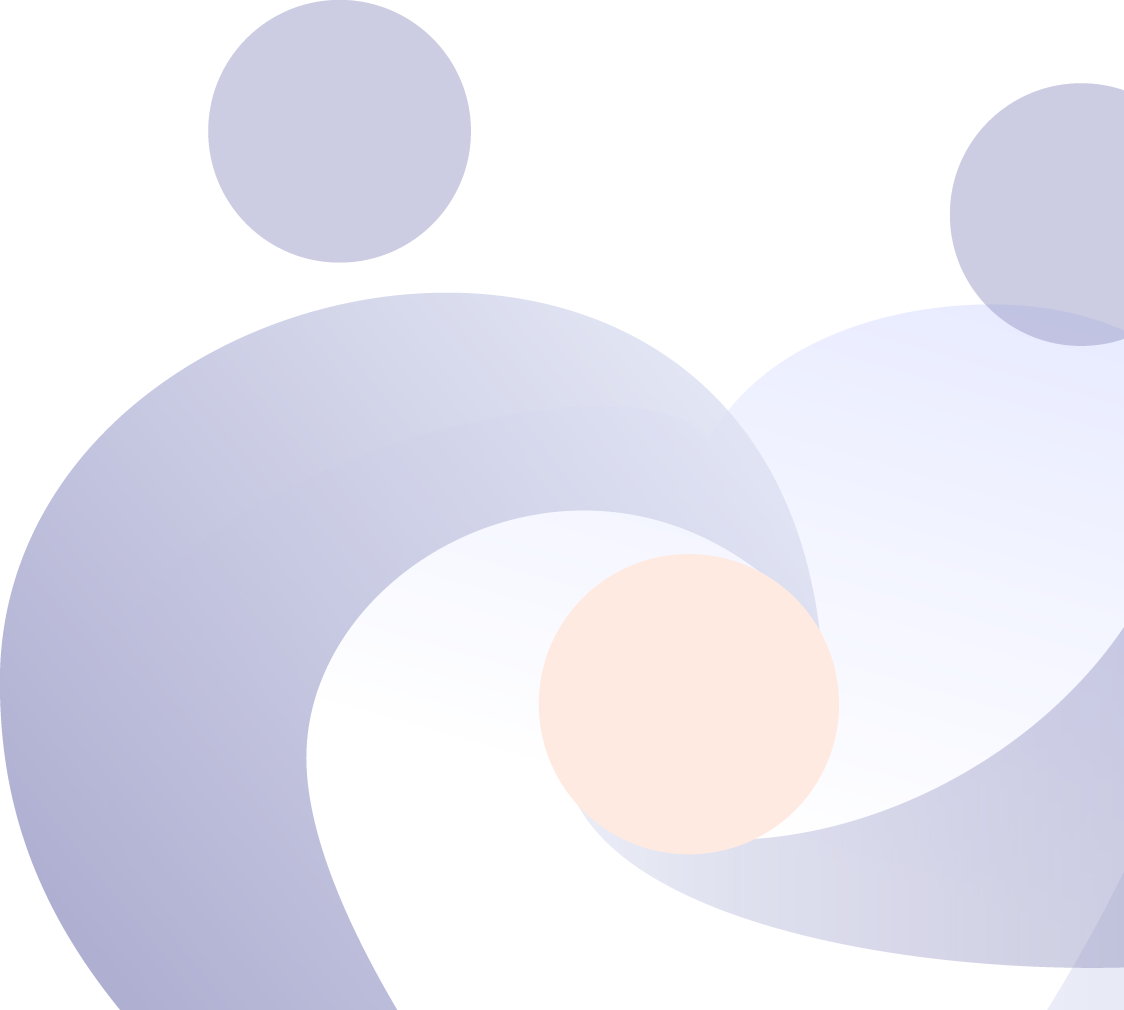
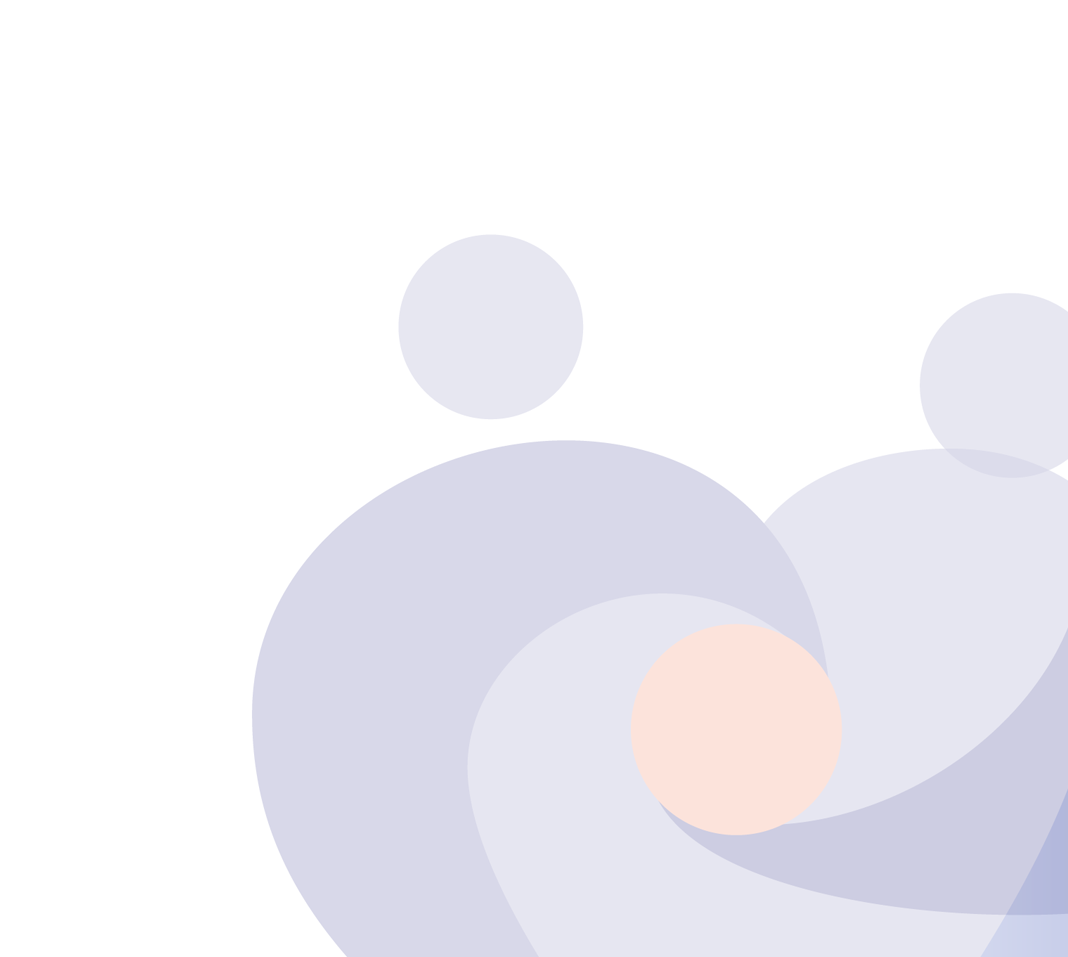
Add background images for public sites Cheated with paddings for full-size image

diff --git a/frontend/src/components/public/Home.js b/frontend/src/components/public/Home.js
@@ -3,30 +3,34 @@ import history from '../../history';
 
 const Home = () => {
     return (
-        <div className="container mt-3 mb-5">
-            <h1>Elsa hilft - Anmeldung als Helfer/in</h1>
+        <div className="view bg h-100" style={{padding: "0", backgroundImage: `url("ElsaHilftMehrBackgroundCropped.png")`,
+            backgroundPositionX: "right", backgroundPositionY: "bottom", backgroundSize: "auto",
+            backgroundRepeat:"no-repeat",backgroundColor: "hsl(240, 100%, 99%)", paddingBottom: "30%"}}>
+            <div className="container pt-5 mb-5">
+                <h1>Elsa hilft - Anmeldung als Helfer/in</h1>
 
-            <p>
-                Willst du der Risikogruppe während der Coronakrise helfen und für sie den Einkauf erledigen?
-            </p>
-            <p>
-                Willst auch du Elsa unterstützen?<br/>
-                Damit du für Elsa unterwegs sein kannst, musst du mindestens 18 Jahre alt sein, in der Region wohnhaft sein und dich an folgende Hygieneregeln halten:
-            </p>
-            <p>
-                <ul>
-                    <li>Kein direkter Kontakt mit dem Empfänger / der Empfängerin der Ware, Einkaufstasche wenn möglich vor Übergabe desinfizieren</li>
-                    <li>Achte strengstens auf die Anweisungen des Bundesamtes für Gesundheit, damit du dich nicht selber infizierst: Abstand halten, gründlich Hände waschen, keine Hände schütteln, in Taschentuch oder Armbeuge husten</li>
-                    <li>Sobald du Krankheitssymptome (Atembeschwerden, Husten und Fieber) spürst, kannst du ab sofort keine Einsätze mehr übernehmen</li>
-                </ul>
+                <p>
+                    Willst du der Risikogruppe während der Coronakrise helfen und für sie den Einkauf erledigen?
+                </p>
+                <p>
+                    Willst auch du Elsa unterstützen?<br/>
+                    Damit du für Elsa unterwegs sein kannst, musst du mindestens 18 Jahre alt sein, in der Region wohnhaft sein und dich an folgende Hygieneregeln halten:
+                </p>
+                <p>
+                    <ul>
+                        <li>Kein direkter Kontakt mit dem Empfänger / der Empfängerin der Ware, Einkaufstasche wenn möglich vor Übergabe desinfizieren</li>
+                        <li>Achte strengstens auf die Anweisungen des Bundesamtes für Gesundheit, damit du dich nicht selber infizierst: Abstand halten, gründlich Hände waschen, keine Hände schütteln, in Taschentuch oder Armbeuge husten</li>
+                        <li>Sobald du Krankheitssymptome (Atembeschwerden, Husten und Fieber) spürst, kannst du ab sofort keine Einsätze mehr übernehmen</li>
+                    </ul>
 
-                Weitere Informationen findest du hier:
-                www.baden.ch/elsahilft
-            </p>
-            <p>
-                Ein Projekt der Elsa Benz-von Arx-Stiftung in Zusammenarbeit mit der Stadt Baden und der Unterstützung von hilf-jetzt.ch und vielen weiteren unverzichtbaren Helfenden
-            </p>
-            <button type="submit" className="btn btn-primary" onClick={() => history.push("/register")}>Ich möchte mich als Helfer melden</button>
+                    Weitere Informationen findest du hier:
+                    www.baden.ch/elsahilft
+                </p>
+                <p>
+                    Ein Projekt der Elsa Benz-von Arx-Stiftung in Zusammenarbeit mit der Stadt Baden und der Unterstützung von hilf-jetzt.ch und vielen weiteren unverzichtbaren Helfenden
+                </p>
+                <button type="submit" className="btn btn-primary" onClick={() => history.push("/register")}>Ich möchte mich als Helfer melden</button>
+            </div>
         </div>
     );
 };

diff --git a/frontend/src/components/public/About.js b/frontend/src/components/public/About.js
@@ -2,21 +2,25 @@ import React from 'react';
 
 const About = () => {
     return (
-        <div className="container mt-3">
-            <h1>Über Elsa hilft</h1>
-            <h4><strong><br />Ein Projekt der Elsa Benz-von Arx Stiftung unter der Leitung der Stadt Baden - Einkaufen für die Risikogruppe des Coronavirus im Bezirk Baden</strong></h4>
-            <p>
-                <br />Der Bund empfiehlt seit dem 16. März 2020 allen Personen über 65 Jahren und Menschen mit Vorerkrankungen dringend, unnötige Kontakte zu vermeiden. 
-                Der Aufruf wurde am 18. März 2020 verschärft und die Risikogruppe wird seither dringend angehalten, zuhause zu bleiben.
-                Mit dem Ziel, Ansteckungen und die weitere Verbreitung des Coronavirus aufzuhalten und der Risikogruppe eine niederschwellige und vertrauenserweckende Möglichkeit zu bieten, 
-                hat die Stadt Baden eine Zentrale eingerichtet, die für die Risikogruppe mit der Hilfe von freiwilligen Helfenden den Einkauf erledigt:
-            </p>
-                <ul>
-                    <li>Kostenlose und sichere Hilfe für die Risikogruppe des Coronavirus</li>
-                    <li>Individuelle Einkaufswünsche möglich (Produkte und Geschäfte wählbar)</li>
-                    <li>Die Privatsphäre der Empfängerinnen und Empfänger sowie der freiwilligen Helfenden ist geschützt, kein Datenaustausch</li>
-                    <li>Die Hygieneregeln des Bundesamts für Gesundheit müssen befolgt werden</li>
-                </ul>
+        <div className="view bg h-100" style={{padding: "0", backgroundImage: `url("ElsaHilftMehrBackgroundCropped.png")`,
+            backgroundPositionX: "right", backgroundPositionY: "bottom", backgroundSize: "auto",
+            backgroundRepeat:"no-repeat",backgroundColor: "hsl(240, 100%, 99%)", paddingBottom: "30%"}}>
+            <div className="container pt-5">
+                <h1>Über Elsa hilft</h1>
+                <h4><strong><br />Ein Projekt der Elsa Benz-von Arx Stiftung unter der Leitung der Stadt Baden - Einkaufen für die Risikogruppe des Coronavirus im Bezirk Baden</strong></h4>
+                <p>
+                    <br />Der Bund empfiehlt seit dem 16. März 2020 allen Personen über 65 Jahren und Menschen mit Vorerkrankungen dringend, unnötige Kontakte zu vermeiden.
+                    Der Aufruf wurde am 18. März 2020 verschärft und die Risikogruppe wird seither dringend angehalten, zuhause zu bleiben.
+                    Mit dem Ziel, Ansteckungen und die weitere Verbreitung des Coronavirus aufzuhalten und der Risikogruppe eine niederschwellige und vertrauenserweckende Möglichkeit zu bieten,
+                    hat die Stadt Baden eine Zentrale eingerichtet, die für die Risikogruppe mit der Hilfe von freiwilligen Helfenden den Einkauf erledigt:
+                </p>
+                    <ul>
+                        <li>Kostenlose und sichere Hilfe für die Risikogruppe des Coronavirus</li>
+                        <li>Individuelle Einkaufswünsche möglich (Produkte und Geschäfte wählbar)</li>
+                        <li>Die Privatsphäre der Empfängerinnen und Empfänger sowie der freiwilligen Helfenden ist geschützt, kein Datenaustausch</li>
+                        <li>Die Hygieneregeln des Bundesamts für Gesundheit müssen befolgt werden</li>
+                    </ul>
+            </div>
         </div>
     )
 };

diff --git a/frontend/src/components/admin/home/AdminLogin.js b/frontend/src/components/admin/home/AdminLogin.js
@@ -17,13 +17,13 @@ const AdminLogin = () => {
     };
 
     return (
-        <div className="view bg border h-100" style={{padding: "0", backgroundImage: `url("ElsaHilftMehrBackgroundCropped.png")`,
+        <div className="view bg h-100" style={{padding: "0", backgroundImage: `url("ElsaHilftMehrBackgroundCropped.png")`,
             backgroundPositionX: "right", backgroundPositionY: "bottom", backgroundSize: "auto",
-            backgroundRepeat:"no-repeat",backgroundColor: "hsl(240, 100%, 98.5%)", paddingBottom: "40%"}}>
+            backgroundRepeat:"no-repeat",backgroundColor: "hsl(240, 100%, 99%)", paddingBottom: "30%"}}>
 
             <div className="container mt-3 mb-5" >
                 <div className="d-flex flex-column align-items-center">
-                    <img src="ElsaHilftMehrContour.png" className="align-middle" width="200" height="200" alt="" />
+                    <img src="ElsaHilftMehrContour.png" className="align-middle mt-5" width="200" height="200" alt="" />
                 </div>
 
                 <h1 className="mb-4">Login</h1>

diff --git a/frontend/src/components/public/RegisterVolunteer.js b/frontend/src/components/public/RegisterVolunteer.js
@@ -146,7 +146,10 @@ const RegisterVolunteer = () => {
     };
 
     return (
-        <div className="container mt-3 mb-5">
+        <div className="view bg h-100" style={{padding: "0", backgroundImage: `url("ElsaHilftMehrBackgroundCropped.png")`,
+            backgroundPositionX: "right", backgroundPositionY: "bottom", backgroundSize: "auto",
+            backgroundRepeat:"no-repeat",backgroundColor: "hsl(240, 100%, 99%)", paddingBottom: "10%"}}>
+        <div className="container pt-5 mb-5">
             <h1>Als Helfer/in registrieren</h1>
             <form onSubmit={handleSubmit(onSubmit)} >
                 <div className="row">
@@ -213,6 +216,7 @@ const RegisterVolunteer = () => {
                 )}
                 <button type="submit" className="btn btn-primary">Absenden</button>
             </form>
+        </div>
         </div>
     );
 
